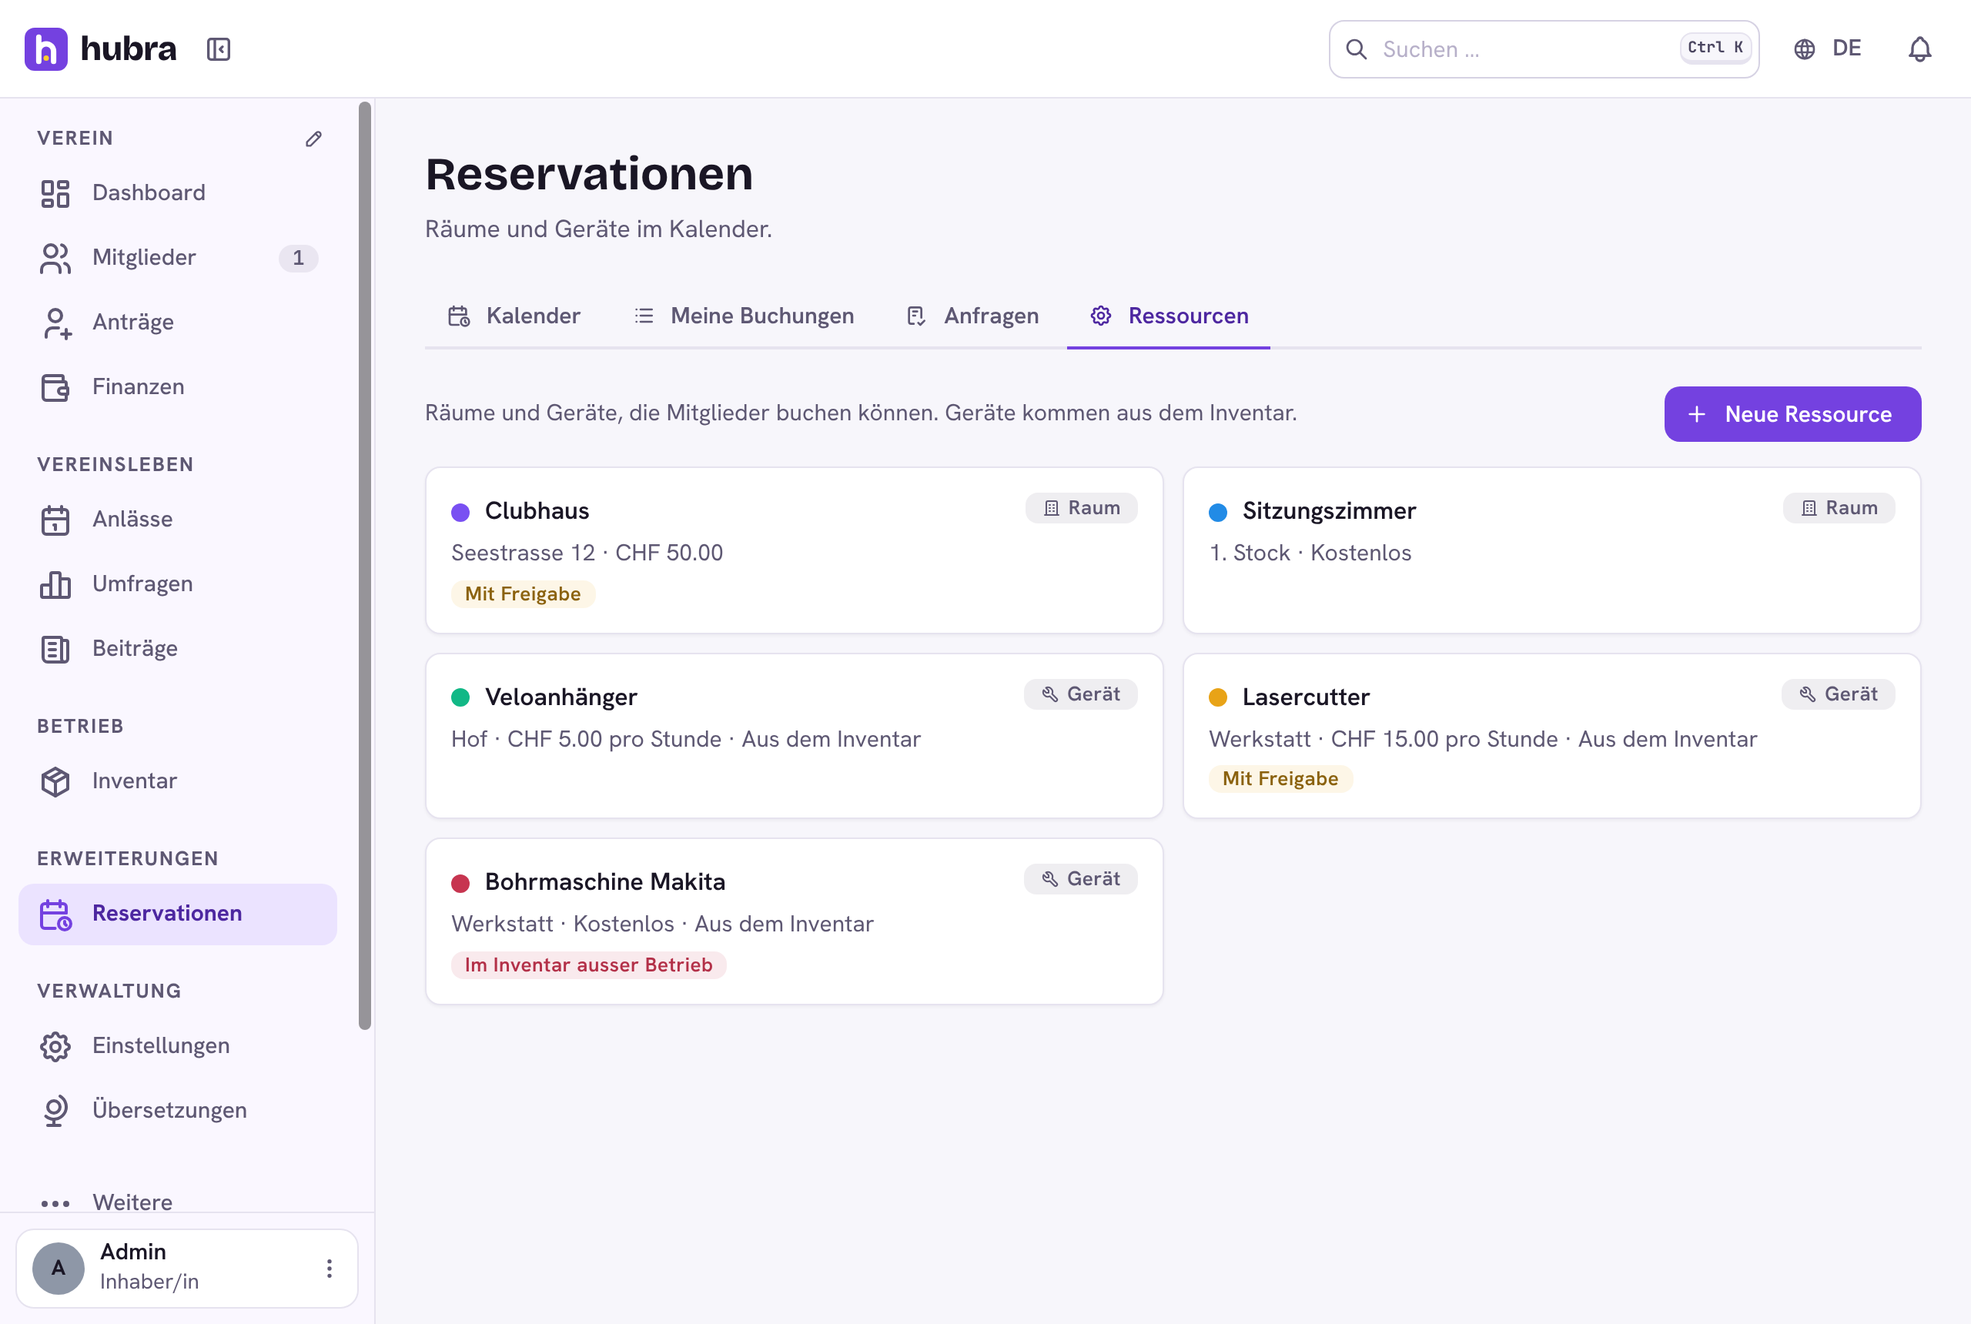
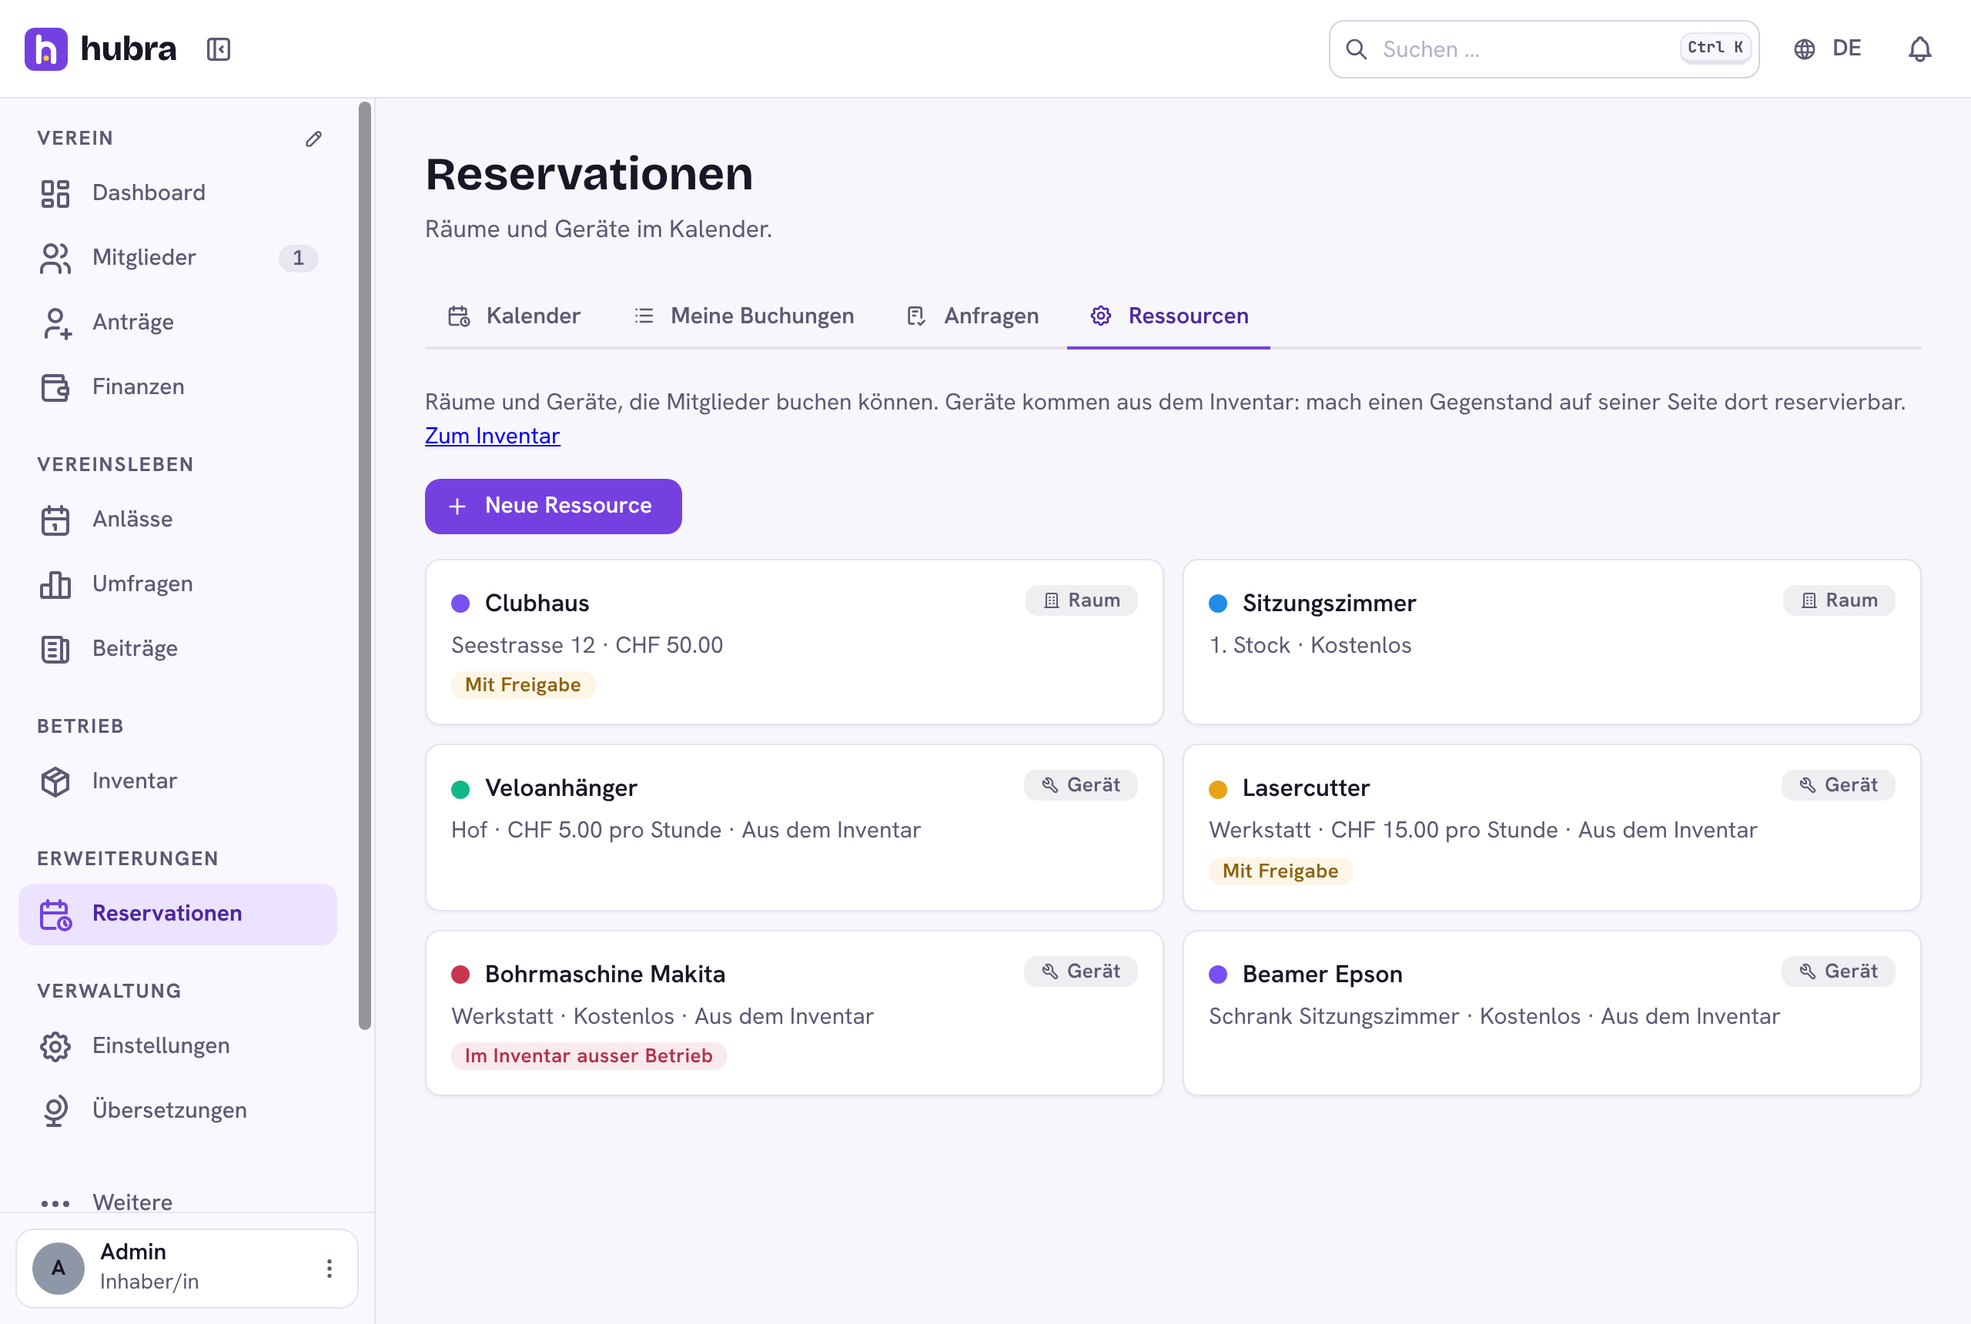
Make inventory items bookable from their own page
A Reservationen panel in the inventory.item slot shows an item's booking
terms and lets managers make it bookable; the Booking picker hides items
that already are a resource.

Claude-Session: https://claude.ai/code/session_01Mn3pyoDxhEVN3v14uix1DE

diff --git a/frontend/src/ResourcesTab.tsx b/frontend/src/ResourcesTab.tsx
@@ -1,4 +1,5 @@
 import { useState, type FormEvent } from 'react'
+import { Link, useNavigate } from 'react-router-dom'
 import { useQuery, useQueryClient } from '@tanstack/react-query'
 import { Badge, Box, Button, Group, NumberInput, Paper, SegmentedControl, Select, SimpleGrid, Stack, Switch, Text, TextInput, Textarea } from '@mantine/core'
 import { IconBuilding, IconPlus, IconTool } from '@tabler/icons-react'
@@ -17,13 +18,23 @@ function Dot({ color, size }: { color: string; size: number }) {
 export function ResourcesTab({ options }: { options: Options | undefined }) {
   const { t } = useT()
   const resources = useQuery({ queryKey: QK.resources(true), queryFn: () => listResources(true) })
+  const navigate = useNavigate()
   const [editing, setEditing] = useState<Resource | 'new' | null>(null)
+  // An inventory item's booking settings live on its page in the inventory.
+  const open = (r: Resource) => (r.inventoryItemId && options?.inventory ? navigate(`/app/inventory/${r.inventoryItemId}`) : setEditing(r))
 
   return (
     <Stack gap="md">
       <Group justify="space-between" wrap="wrap">
         <Text size="sm" c="dimmed">
-          {t(options?.inventory ? 'booking.resources.hintInventory' : 'booking.resources.hint')}
+          {options?.inventory ? (
+            <>
+              {t('booking.resources.hintInventory')}{' '}
+              <Link to="/app/inventory">{t('booking.resources.toInventory')}</Link>
+            </>
+          ) : (
+            t('booking.resources.hint')
+          )}
         </Text>
         <Button leftSection={<IconPlus size={16} />} onClick={() => setEditing('new')}>
           {t('booking.resources.new')}
@@ -38,7 +49,7 @@ export function ResourcesTab({ options }: { options: Options | undefined }) {
       ) : (
         <SimpleGrid cols={{ base: 1, sm: 2 }} spacing="sm">
           {resources.data.map((r) => (
-            <Paper key={r.id} withBorder p="md" radius="md" style={{ cursor: 'pointer', opacity: r.active ? 1 : 0.6 }} onClick={() => setEditing(r)}>
+            <Paper key={r.id} withBorder p="md" radius="md" style={{ cursor: 'pointer', opacity: r.active ? 1 : 0.6 }} onClick={() => open(r)}>
               <Group justify="space-between" wrap="nowrap" align="flex-start">
                 <Group gap="xs" wrap="nowrap" style={{ minWidth: 0 }}>
                   <Dot color={resourceColor(r)} size={12} />
@@ -92,17 +103,29 @@ export function ResourcesTab({ options }: { options: Options | undefined }) {
   )
 }
 
-function ResourceModal({ resource, options, onClose }: { resource: Resource | null; options: Options | undefined; onClose: () => void }) {
+/** Adds or changes a resource. With *fixedItem* it makes that inventory item
+ * bookable (the panel on the item's page). */
+export function ResourceModal({
+  resource,
+  options,
+  onClose,
+  fixedItem,
+}: {
+  resource: Resource | null
+  options: Options | undefined
+  onClose: () => void
+  fixedItem?: { id: number; name: string; location: string | null }
+}) {
   const { t } = useT()
   const qc = useQueryClient()
   const { busy, run } = useAction()
-  const items = useQuery({ queryKey: QK.items, queryFn: listInventoryItems, enabled: !!options?.inventory })
-  const [name, setName] = useState(resource?.name ?? '')
-  const [kind, setKind] = useState<Kind>(resource?.kind ?? 'room')
-  const [location, setLocation] = useState(resource?.location ?? '')
+  const items = useQuery({ queryKey: QK.items, queryFn: listInventoryItems, enabled: !!options?.inventory && !fixedItem })
+  const [name, setName] = useState(resource?.name ?? fixedItem?.name ?? '')
+  const [kind, setKind] = useState<Kind>(fixedItem ? 'equipment' : (resource?.kind ?? 'room'))
+  const [location, setLocation] = useState(resource?.location ?? fixedItem?.location ?? '')
   const [description, setDescription] = useState(resource?.description ?? '')
   const [color, setColor] = useState(resource?.color ?? 'violet')
-  const [itemId, setItemId] = useState<number | null>(resource?.inventoryItemId ?? null)
+  const [itemId, setItemId] = useState<number | null>(fixedItem?.id ?? resource?.inventoryItemId ?? null)
   const [needsApproval, setNeedsApproval] = useState(resource?.needsApproval ?? false)
   const [feeFlat, setFeeFlat] = useState<number | string>(resource?.feeFlat ?? '')
   const [feePerHour, setFeePerHour] = useState<number | string>(resource?.feePerHour ?? '')
@@ -113,13 +136,12 @@ function ResourceModal({ resource, options, onClose }: { resource: Resource | nu
   const [deleting, setDeleting] = useState(false)
   // With Inventory running, equipment is an inventory item: its name and
   // place come from there. A room may be one too.
-  const fromInventory = !!options?.inventory && kind === 'equipment'
-  const item = items.data?.find((i) => i.id === itemId)
-  const itemOptions = (items.data ?? []).map((i) => {
-    const taken = i.resourceId != null && i.resourceId !== resource?.id
-    const label = [i.name, i.location ? `(${i.location})` : null, taken ? `· ${t('booking.resources.itemTaken')}` : null].filter(Boolean).join(' ')
-    return { value: String(i.id), label, disabled: taken }
-  })
+  const fromInventory = !fixedItem && !!options?.inventory && kind === 'equipment'
+  const item = fixedItem ?? items.data?.find((i) => i.id === itemId)
+  // Items that already are a resource aren't offered again.
+  const itemOptions = (items.data ?? [])
+    .filter((i) => i.resourceId == null || i.resourceId === resource?.id)
+    .map((i) => ({ value: String(i.id), label: [i.name, i.location ? `(${i.location})` : null].filter(Boolean).join(' ') }))
   const pickItem = (v: string | null) => {
     const id = v ? Number(v) : null
     setItemId(id)
@@ -163,7 +185,7 @@ function ResourceModal({ resource, options, onClose }: { resource: Resource | nu
       title={resource ? t('booking.resources.edit') : t('booking.resources.new')}
       footer={
         <>
-          {resource && (
+          {resource && !fixedItem && (
             <Button color="red" variant="subtle" mr="auto" onClick={() => setDeleting(true)}>
               {t('booking.delete')}
             </Button>
@@ -177,6 +199,7 @@ function ResourceModal({ resource, options, onClose }: { resource: Resource | nu
         </>
       }
     >
+      {!fixedItem && (
       <Field label={t('booking.resources.kind')}>
         <SegmentedControl
           fullWidth
@@ -188,7 +211,8 @@ function ResourceModal({ resource, options, onClose }: { resource: Resource | nu
           ]}
         />
       </Field>
-      {fromInventory ? (
+      )}
+      {fixedItem ? null : fromInventory ? (
         <Field label={t('booking.resources.pickItem')} hint={t('booking.resources.pickItemHint')}>
           <Select
             aria-label={t('booking.resources.pickItem')}
@@ -238,7 +262,7 @@ function ResourceModal({ resource, options, onClose }: { resource: Resource | nu
       <Field label={t('booking.resources.description')}>
         <Textarea value={description} onChange={(e) => setDescription(e.currentTarget.value)} autosize minRows={2} />
       </Field>
-      {options?.inventory && !fromInventory && (
+      {options?.inventory && !fromInventory && !fixedItem && (
         <Field label={t('booking.resources.item')} hint={t('booking.resources.itemHint')}>
           <Select aria-label={t('booking.resources.item')} data={itemOptions} value={itemId ? String(itemId) : null} onChange={pickItem} clearable searchable />
         </Field>

diff --git a/frontend/src/ItemBookingPanel.tsx b/frontend/src/ItemBookingPanel.tsx
@@ -1,0 +1,99 @@
+import { useState } from 'react'
+import { Link } from 'react-router-dom'
+import { Badge, Button, Group, SimpleGrid, Text } from '@mantine/core'
+import { useQuery } from '@tanstack/react-query'
+import { PanelField, PanelSection, useT } from '@hubra/plugin-sdk'
+import { OUT_OF_USE, QK, getOptions, getResourceByItem } from './api'
+import { chf } from './common'
+import { ResourceModal } from './ResourcesTab'
+
+/**
+ * On an inventory item's page: whether members can book it, at what fee and
+ * with whose approval, and a link to its calendar. Those who manage resources
+ * make the item bookable here, so equipment is set up where it is described.
+ */
+export function ItemBookingPanel({ itemId }: { itemId: number }) {
+  const { t } = useT()
+  const [editing, setEditing] = useState(false)
+  const data = useQuery({ queryKey: QK.byItem(itemId), queryFn: () => getResourceByItem(itemId), retry: false })
+  const options = useQuery({ queryKey: QK.options, queryFn: getOptions, enabled: !!data.data?.canManage })
+  const r = data.data?.resource
+  const item = data.data?.item
+  if (!data.data || !item || (!r && !data.data.canManage)) return null
+
+  const fee = r && (r.feeFlat || r.feePerHour)
+    ? [r.feeFlat ? chf(r.feeFlat) : null, r.feePerHour ? t('booking.perHour', { amount: chf(r.feePerHour) }) : null].filter(Boolean).join(' + ')
+    : t('booking.free')
+  const outOfUse = !!item.status && OUT_OF_USE.includes(item.status)
+
+  return (
+    <>
+      <PanelSection
+        label={t('booking.item.panel')}
+        right={
+          data.data.canManage && r ? (
+            <Button size="compact-xs" variant="subtle" onClick={() => setEditing(true)}>
+              {t('booking.item.edit')}
+            </Button>
+          ) : null
+        }
+      >
+        {!r ? (
+          <Group justify="space-between" wrap="wrap" gap="xs">
+            <Text size="sm" c="dimmed">
+              {t('booking.item.notBookable')}
+            </Text>
+            <Button size="xs" onClick={() => setEditing(true)}>
+              {t('booking.item.makeBookable')}
+            </Button>
+          </Group>
+        ) : (
+          <>
+            <SimpleGrid cols={{ base: 2, sm: 3 }} spacing="sm">
+              <PanelField label={t('booking.item.fee')}>{fee}</PanelField>
+              <PanelField label={t('booking.item.approval')}>{r.needsApproval ? t('booking.needsApproval') : t('booking.item.noApproval')}</PanelField>
+              <PanelField label={t('booking.item.limits')}>
+                {[
+                  r.maxHours ? t('booking.item.maxHours', { n: r.maxHours }) : null,
+                  t('booking.item.ahead', { n: r.advanceDays ?? 180 }),
+                ]
+                  .filter(Boolean)
+                  .join(' · ')}
+              </PanelField>
+            </SimpleGrid>
+            {r.description && (
+              <Text size="sm" mt="sm" style={{ whiteSpace: 'pre-wrap' }}>
+                {r.description}
+              </Text>
+            )}
+            <Group gap="xs" mt="sm" wrap="wrap">
+              {!r.active && (
+                <Badge variant="light" color="gray" style={{ textTransform: 'none' }}>
+                  {t('booking.resources.off')}
+                </Badge>
+              )}
+              {outOfUse && (
+                <Badge variant="light" color="red" style={{ textTransform: 'none' }}>
+                  {t('booking.resources.outOfUse')}
+                </Badge>
+              )}
+              {r.active && !outOfUse && (
+                <Button size="xs" variant="light" component={Link} to={`/app/booking?resource=${r.id}`}>
+                  {t('booking.item.calendar')}
+                </Button>
+              )}
+            </Group>
+          </>
+        )}
+      </PanelSection>
+      {editing && (
+        <ResourceModal
+          resource={r ?? null}
+          options={options.data}
+          fixedItem={{ id: item.id, name: item.name, location: item.location }}
+          onClose={() => setEditing(false)}
+        />
+      )}
+    </>
+  )
+}

diff --git a/frontend/src/api.ts b/frontend/src/api.ts
@@ -61,6 +61,7 @@ export const QK = {
   options: ['booking', 'options'] as const,
   resources: (all: boolean) => ['booking', 'resources', all] as const,
   items: ['booking', 'inventory-items'] as const,
+  byItem: (itemId: number) => ['booking', 'by-item', itemId] as const,
   calendar: (from: string, to: string) => ['booking', 'calendar', from, to] as const,
   mine: ['booking', 'mine'] as const,
   pending: ['booking', 'pending'] as const,
@@ -81,6 +82,8 @@ export interface InventoryItem {
   resourceId: number | null
 }
 
+export const getResourceByItem = (itemId: number) =>
+  apiFetch<{ resource: Resource | null; item: { id: number; name: string; location: string | null; status: string | null } | null; canManage: boolean }>(`${BASE}/resources/by-item/${itemId}`)
 export const listInventoryItems = () => apiFetch<InventoryItem[]>(`${BASE}/inventory-items`)
 
 /** Inventory statuses in which an item can't be booked. */

diff --git a/frontend/src/index.tsx b/frontend/src/index.tsx
@@ -1,6 +1,7 @@
 import { registerPlugin } from '@hubra/plugin-sdk'
 import { IconCalendarTime } from '@tabler/icons-react'
 import { BookingScreen } from './BookingScreen'
+import { ItemBookingPanel } from './ItemBookingPanel'
 import translations from './translations.json'
 
 registerPlugin({
@@ -11,6 +12,9 @@ registerPlugin({
     { path: 'booking/requests', module: 'booking', perm: 'booking.bookings.update', component: BookingScreen },
     { path: 'booking/resources', module: 'booking', perm: 'booking.resources.update', component: BookingScreen },
   ],
+  // On an inventory item's page: make it bookable, its fees and approval,
+  // and a link to its calendar.
+  slots: [{ slot: 'inventory.item', module: 'booking', component: ItemBookingPanel }],
   // The nav entry in hubra_booking/__init__.py names this icon.
   icons: { 'calendar-time': IconCalendarTime },
   translations,

diff --git a/frontend/src/CalendarTab.tsx b/frontend/src/CalendarTab.tsx
@@ -35,6 +35,9 @@ export function CalendarTab({ options }: { options: Options | undefined }) {
   const phone = useMediaQuery('(max-width: 48em)')
   const resources = useQuery({ queryKey: QK.resources(false), queryFn: () => listResources() })
   const [picked, setPicked] = useState<number | null>(() => {
+    // ?resource=<id>: opened from an inventory item's page.
+    const asked = Number(new URLSearchParams(window.location.search).get('resource'))
+    if (asked) return asked
     try {
       return Number(localStorage.getItem('booking.resource')) || null
     } catch {

diff --git a/hubra_booking/routes.py b/hubra_booking/routes.py
@@ -10,6 +10,8 @@ POST   /resources                     {name, kind, description?, location?, colo
 PATCH  /resources/<id>                same fields, plus active, position
 DELETE /resources/<id>                only without bookings; else switch it off
 GET    /inventory-items               items of the Inventory plugin to pick from
+GET    /resources/by-item/<item_id>   the resource an inventory item is, for the
+                                      panel on the item's page ({resource, item, canManage})
 GET    /bookings?from=&to=&resourceId= the calendar: pending and confirmed slots
 GET    /bookings/mine                 the caller's bookings, upcoming and recent
 GET    /bookings/pending              waiting for approval (approvers)
@@ -367,6 +369,33 @@ def delete_resource(resource_id: int):
     db.session.delete(r)
     db.session.commit()
     return "", 204
+
+
+@booking_bp.get("/resources/by-item/<int:item_id>")
+@require_member
+def resource_by_item(item_id: int):
+    """What the panel on an inventory item's page shows: its resource, if the
+    item is one, and whether the caller may make it bookable or change it."""
+    member = get_current_member()
+    manager = _can(member, RESOURCES)
+    r = db.session.scalar(
+        select(BookingResource).where(BookingResource.inventory_item_id == item_id)
+    )
+    if r is not None and not r.active and not manager:
+        r = None
+    items = _inventory_items([item_id])
+    item = items.get(item_id)
+    return jsonify(
+        {
+            "resource": _resource(r, items) if r else None,
+            "item": (
+                {k: item.get(k) for k in ("id", "name", "location", "status")}
+                if item
+                else None
+            ),
+            "canManage": manager,
+        }
+    )
 
 
 @booking_bp.get("/inventory-items")

diff --git a/tests/test_booking.py b/tests/test_booking.py
@@ -322,3 +322,26 @@ def test_without_inventory_resources_are_typed_in(client, club, monkeypatch):
         f"{BASE}/resources", json={"name": "Anhänger", "kind": "equipment"}
     )
     assert res.status_code == 201
+
+
+def test_the_item_page_panel_reads_its_resource(client, club, inventory):
+    _login(client, "kim@test.ch")
+    empty = client.get(f"{BASE}/resources/by-item/9").get_json()
+    assert empty["resource"] is None and empty["canManage"] is True
+    assert empty["item"]["name"] == "Laser"
+    laser = client.post(
+        f"{BASE}/resources",
+        json={"kind": "equipment", "inventoryItemId": 9, "feePerHour": "12"},
+    ).get_json()
+    got = client.get(f"{BASE}/resources/by-item/9").get_json()
+    assert got["resource"]["id"] == laser["id"]
+
+    # Members see an active resource but may not change it; a switched-off
+    # one isn't shown to them.
+    _login(client, "max@test.ch")
+    seen = client.get(f"{BASE}/resources/by-item/9").get_json()
+    assert seen["resource"]["id"] == laser["id"] and seen["canManage"] is False
+    _login(client, "kim@test.ch")
+    client.patch(f"{BASE}/resources/{laser['id']}", json={"active": False})
+    _login(client, "max@test.ch")
+    assert client.get(f"{BASE}/resources/by-item/9").get_json()["resource"] is None

diff --git a/CHANGELOG.md b/CHANGELOG.md
@@ -9,6 +9,12 @@
   lost, retired, archived) can't be booked, and a deleted item switches its
   resource off (event `inventory.item.deleted`). Without Inventory,
   resources are typed in as before.
+- A "Reservationen" panel on an inventory item's page (slot `inventory.item`):
+  managers make the item bookable there and set fee, approval and limits;
+  members see the terms and a link to its calendar
+  (`/app/booking?resource=<id>`). New route `GET /resources/by-item/<id>`.
+  The Booking picker no longer lists items that already are a resource, and
+  equipment cards in Booking open the item's page.
 - Inventory items are read through Inventory's contracts
   (`inventory.items.get`, `inventory.items.list`) instead of its table. Without
   Inventory, or with it switched off, resources simply have no linked item.
